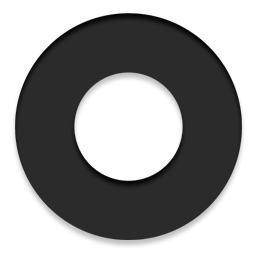
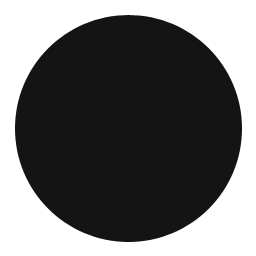
some style changes

diff --git a/app/scripts/main.js b/app/scripts/main.js
@@ -97,13 +97,14 @@ require(['app', 'jquery', 'bootstrap', 'stellar', 'tooltip', 'easel', 'preload']
             for(var i = 0; i<numCircles; i++){
                 var temp = new Circle(new createjs.Bitmap(queue.getResult(imgArray[i])));
                 circleContainer.addChild(temp.img);
+                circleContainer.addChild(temp.outline);
                 circleArray[i] = temp;
             }
         }
         function instantiateLines(){
             lineContainer = new createjs.Container();
             lines = new createjs.Shape();
-            lines.alpha = 0.6;
+            lines.alpha = 0.5;
             lineContainer.addChild(lines);
         }
         function addContainers(){
@@ -114,19 +115,25 @@ require(['app', 'jquery', 'bootstrap', 'stellar', 'tooltip', 'easel', 'preload']
             var dir = Math.round(Math.random()*1);
             if(dir==0){this.direction = -1;}
             if(dir==1){this.direction = 1;}
-            this.img = bmp;
+            //this.img = bmp;
+            var s = new createjs.Shape();
+            s.graphics.beginFill("black");
+            s.graphics.drawCircle(0,0,128-8);
+            s.shadow = new createjs.Shadow("white",0,0,12);
+            this.img = s;
             this.img.scaleX = Math.random()*0.3+0.1;
             this.img.scaleY = this.img.scaleX;
-            this.offset = (this.img.getBounds().width*this.img.scaleX)/2;
+            this.outline = new createjs.Shape();
+            this.outline.graphics.setStrokeStyle(2);
+            this.outline.graphics.beginStroke("#578c24");
+            this.outline.graphics.drawCircle(0,0,125*this.img.scaleX+3);
+            //this.offset = (this.img.getBounds().width*this.img.scaleX)/2;
+            this.offset = 0;
             this.r = Math.random()*120+130;
             var ang = Math.random()*360;
             this.angle = ang;
             var radians = ang * Math.PI/180;
             this.rads = radians;
-            var xo = this.r*Math.cos(radians);
-            var yo = this.r*Math.sin(radians);
-            this.img.x = CENTER_X + xo - this.offset;
-            this.img.y = CENTER_Y + yo - this.offset;
 
             this.speedMultiplier = (.6-this.img.scaleX)*(1-Math.random()*0.7);
         }
@@ -140,23 +147,21 @@ require(['app', 'jquery', 'bootstrap', 'stellar', 'tooltip', 'easel', 'preload']
                 var yo = temp.r*Math.sin(temp.rads*temp.direction);
                 temp.img.x = CENTER_X + xo - temp.offset;
                 temp.img.y = CENTER_Y + yo - temp.offset;
+                temp.outline.x = temp.img.x + temp.offset;
+                temp.outline.y = temp.img.y + temp.offset;
             }
         }
         function updateLines(){
             lines.graphics.clear();
-            lines.graphics.setStrokeStyle(2).beginStroke("white");
+            lines.graphics.setStrokeStyle(2).beginStroke("#578c24");
             for(var i = 0; i<numCircles; i++){
                 var temp = circleArray[i];
                 lines.graphics.moveTo(temp.img.x+temp.offset, temp.img.y+temp.offset);
                 var temp2 = circleArray[(i+1)%numCircles];
                 lines.graphics.lineTo(temp2.img.x+temp2.offset, temp2.img.y+temp2.offset);
-                //var temp3 = circleArray[(i+2)%numCircles];
-                //lines.graphics.moveTo(temp.img.x+temp.offset, temp.img.y+temp.offset);
-                //lines.graphics.lineTo(temp3.img.x+temp3.offset, temp3.img.y+temp3.offset);
                 lines.graphics.moveTo(temp.img.x+temp.offset, temp.img.y+temp.offset);
-                lines.graphics.lineTo(450,300);
+                lines.graphics.lineTo(450,275);
             }
-            lines.shadow = new createjs.Shadow("#505050",0,0,3);
         }
     });
 

diff --git a/app/index.html b/app/index.html
@@ -171,7 +171,7 @@
 
             <div id="orbitwrapper">
 
-                <div class="featurebgimage"></div>
+                <!-- <div class="featurebgimage"></div> -->
 
                 <canvas id="canvas" width="900" height="550"></canvas>
 

diff --git a/app/styles/main.scss b/app/styles/main.scss
@@ -460,12 +460,10 @@ article {
 }
 #pulser{
   position:relative;
-  z-index:10;
 }
 .featurebgimage {
   content:url(http://placehold.it/900x550);
-  position:absolute
-  z-index:1;
+  position:absolute;
 }
 
 .work-words {
